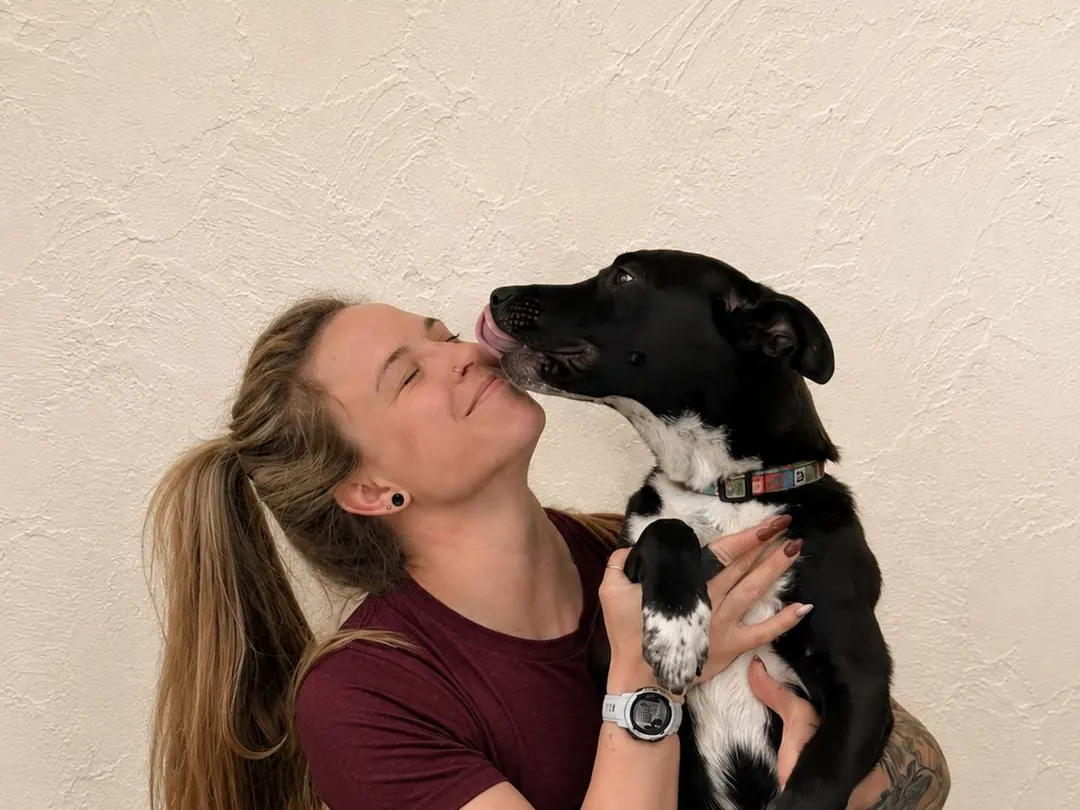
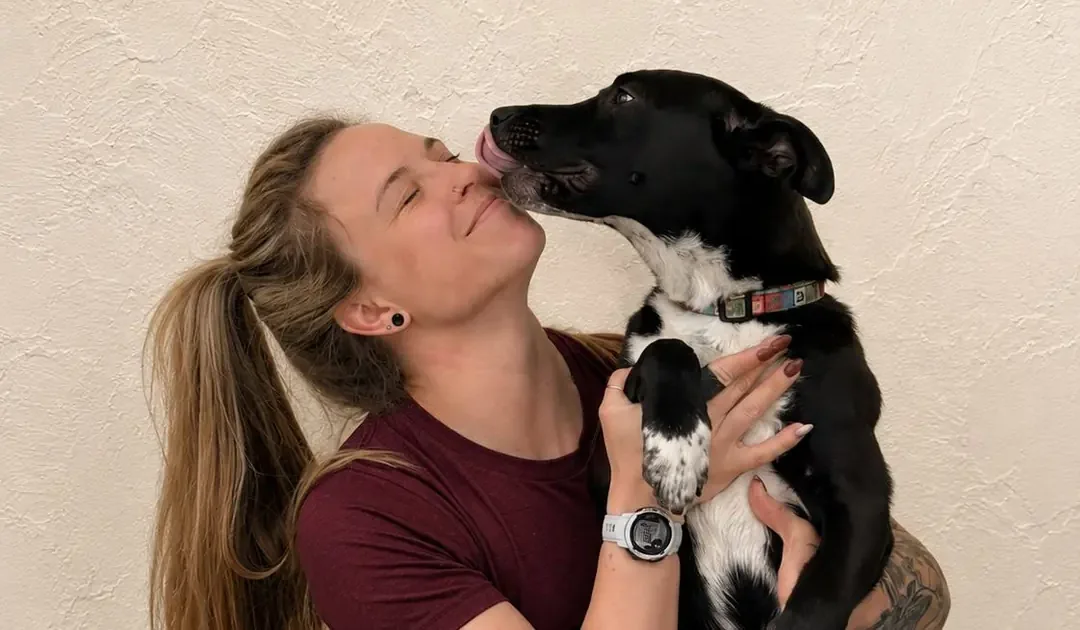
added extra changes

diff --git a/lib/images.ts b/lib/images.ts
@@ -65,6 +65,8 @@ import tmHannah from '@/public/images/testimonial-hannah.webp'
 import tmGia from '@/public/images/testimonial-gia.webp'
 import tmWinnie from '@/public/images/testimonial-winnie.webp'
 
+import glBathHounds from '@/public/images/glowup-bath-hound-pair.webp'
+import glSanChihuahua from '@/public/images/glowup-sanitary-chihuahua.webp'
 import glBathShowerCap from '@/public/images/glowup-bath-shower-cap.webp'
 import glBathPointer from '@/public/images/glowup-bath-pointer-doorway.webp'
 import glBathBostons from '@/public/images/glowup-bath-boston-pair.webp'
@@ -174,11 +176,13 @@ export const glowUpImages: Record<string, StaticImageData> = {
   'bath-pointer-doorway': glBathPointer,
   'bath-boston-pair': glBathBostons,
   'bath-basset-tub': glBathBasset,
+  'bath-hound-pair': glBathHounds,
 
   'sanitary-apricot-poodle': glSanPoodle,
   'sanitary-bichon-bowtie': glSanBichon,
   'sanitary-cockapoo-table': glSanCockapoo,
   'sanitary-yorkie': glSanYorkie,
+  'sanitary-chihuahua': glSanChihuahua,
 
   'fullgroom-orange-bandana': glFgOrangeBandana,
   'fullgroom-cream-doodle-sit': glFgCreamDoodle,

diff --git a/components/Philosophy.module.css b/components/Philosophy.module.css
@@ -4,14 +4,29 @@
   padding-bottom: clamp(3.5rem, 7vw, 6.25rem);
 }
 
+/* The hero stacks below 1200px, which puts its photo directly above this
+   section's photo. The full 3.5rem section gap then reads as a dead band
+   between two images rather than breathing room around text, so it is cut
+   back. Above 1200px the hero is side by side and the gap is doing its job. */
+@media (max-width: 1199px) {
+  .section {
+    padding-top: 1.25rem;
+  }
+}
+
 .grid {
   display: grid;
   gap: clamp(2rem, 5vw, 4.5rem);
   align-items: center;
 }
 
+/* 12/7, matching the file exactly. The photo was 4:3 with a 180px band of
+   blank wall across the top, which left Kaylie and the dog sitting 11% below
+   the frame's centre. Trimming that band centres them and costs no resolution,
+   where cropping inward to keep 4:3 would have dropped the width from 1080 to
+   840 - under what a 3x phone needs for this frame. */
 .media {
-  aspect-ratio: 4 / 3;
+  aspect-ratio: 12 / 7;
 }
 
 .copy {

diff --git a/lib/site.ts b/lib/site.ts
@@ -756,6 +756,12 @@ export const glowUpGallery = {
       alt: 'A basset hound standing in the stainless bathing tub.',
     },
     {
+      key: 'bath-hound-pair',
+      tag: 'Bath',
+      shape: 'portrait',
+      alt: 'Two hounds looking up from the open play pen, clean and dry after their baths.',
+    },
+    {
       key: 'bath-suds',
       tag: 'Bath',
       shape: 'square',
@@ -785,6 +791,12 @@ export const glowUpGallery = {
       tag: 'Sanitary Groom',
       shape: 'portrait',
       alt: 'A Yorkshire terrier in a red collar standing on the grooming table after a sanitary trim.',
+    },
+    {
+      key: 'sanitary-chihuahua',
+      tag: 'Sanitary Groom',
+      shape: 'portrait',
+      alt: 'A long-haired chihuahua in an orange bow tie sitting on the grooming table after a sanitary trim.',
     },
     {
       key: 'dog-rolling',
